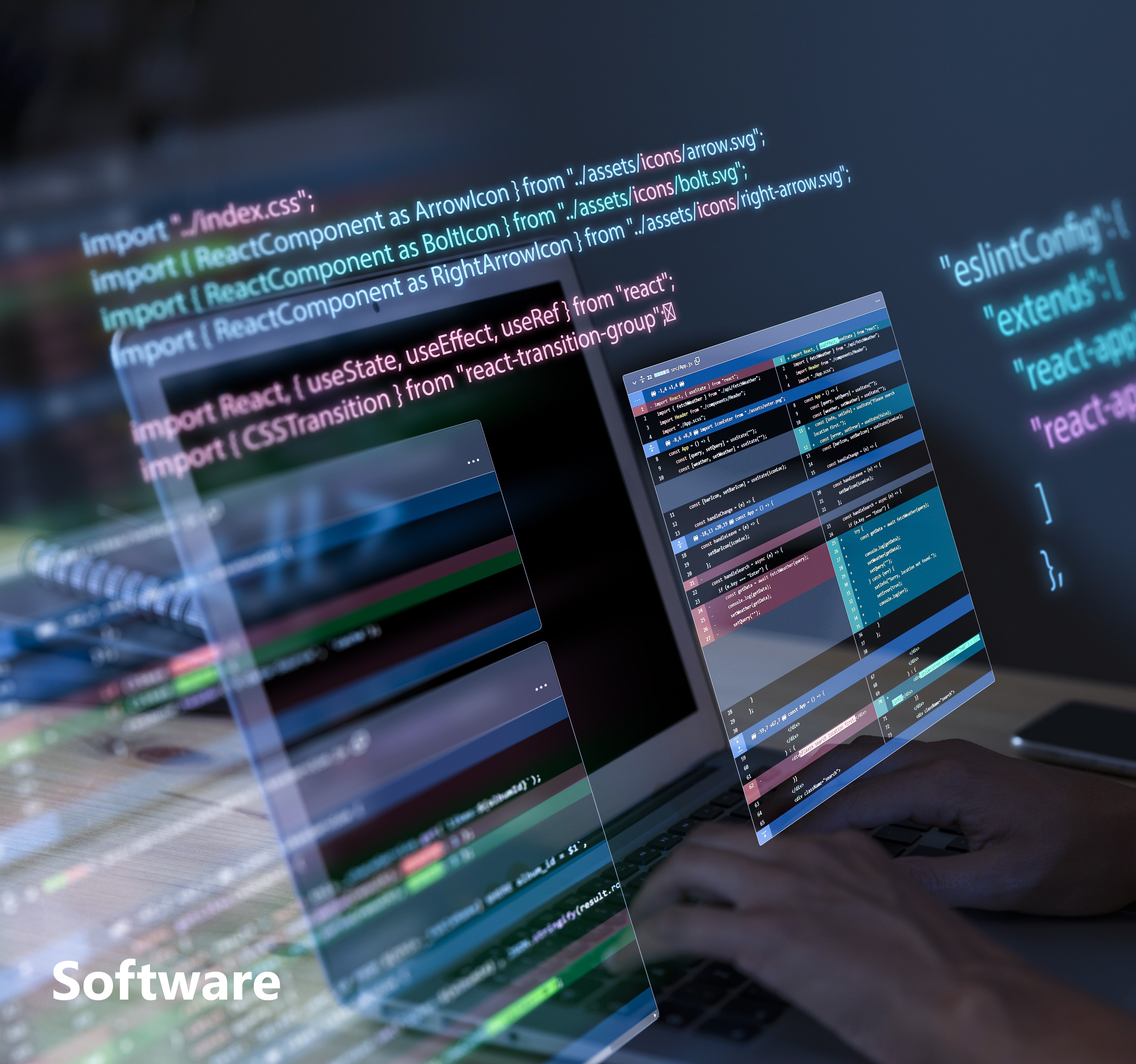
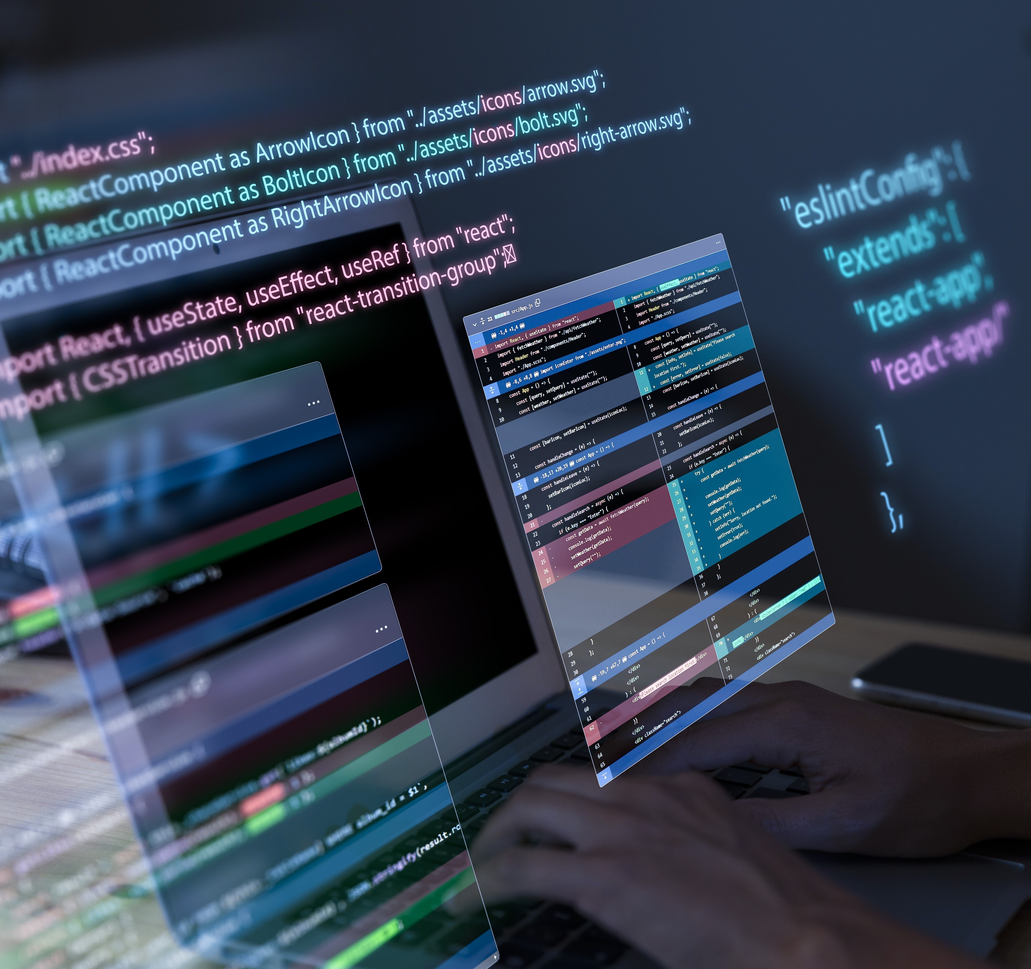
Added drawer and updated slider images

diff --git a/src/components/drawer.jsx b/src/components/drawer.jsx
@@ -1,0 +1,82 @@
+// Drawer.jsx
+import React, { useEffect, useRef } from 'react';
+import styled from 'styled-components';
+
+const DrawerContainer = styled.div`
+  position: fixed;
+  top: 0;
+  left: 0;
+  width: 100%;
+  height: 500px; /* Adjust height as needed */
+  background-color: rgba(16, 36, 71, 0.8); /* Adjust opacity here */
+  color: #fff;
+  z-index: 1000;
+  display: flex;
+  flex-direction: column;
+  justify-content: center;
+  align-items: center;
+  padding: 20px;
+  transition: transform 0.3s ease;
+  transform: translateY(${props => (props.isOpen ? '0' : '-100%')});
+`;
+
+const Content = styled.div`
+  text-align: center;
+  margin-bottom: 40px;
+  margin-left: 40px;
+  margin-right: 40px;
+  font-size: 1.2em; /* Adjust the font size as needed */
+`;
+
+
+const Button = styled.button`
+  font-size: 1.2em;
+  position: absolute;
+  bottom: 100px;
+  right: 120px;
+  background-color: #fff;
+  color: #102447;
+  border: none;
+  padding: 10px 20px;
+  border-radius: 5px;
+  cursor: pointer;
+  transition: background-color 0.3s ease;
+
+  &:hover {
+    background-color: #47bfbf;
+    color: #fff;
+  }
+`;
+
+const Drawer = ({ isOpen, onClose }) => {
+  const drawerRef = useRef(null);
+
+  useEffect(() => {
+    const handleClickOutside = (event) => {
+      if (drawerRef.current && !drawerRef.current.contains(event.target)) {
+        onClose();
+      }
+    };
+
+    if (isOpen) {
+      document.addEventListener('mousedown', handleClickOutside);
+    }
+
+    return () => {
+      document.removeEventListener('mousedown', handleClickOutside);
+    };
+  }, [isOpen, onClose]);
+
+  return (
+    <DrawerContainer isOpen={isOpen} ref={drawerRef}>
+      <Content>
+        <p>
+          Lorem ipsum dolor sit amet, consectetur adipiscing elit. Suspendisse consectetur libero ac ullamcorper bibendum. Donec eu blandit ipsum, a interdum felis. Fusce ut nisl enim. Vestibulum elementum ut quam sed fringilla. Nulla blandit id dolor tincidunt viverra. Donec gravida ut mi sed efficitur.Nam massa eros, bibendum in sapien et, vehicula accumsan ipsum. In aliquam ligula et justo semper dignissim. Duis accumsan mauris eu elementum posuere. In gravida euismod ex, quis gravida erat mollis sit amet. Sed quis fringilla leo. Ut nec dolor tellus. Cras posuere euismod porta. In arcu metus, tincidunt quis rhoncus non, tincidunt sit amet nibh. Praesent laoreet felis et libero feugiat, bibendum blandit felis vestibulum.
+        </p>
+      </Content>
+      <Button onClick={onClose}>Know More</Button>
+    </DrawerContainer>
+  );
+};
+
+export default Drawer;

diff --git a/src/components/header.jsx b/src/components/header.jsx
@@ -1,18 +1,23 @@
 // Header.jsx
-import React, { useRef, useEffect } from 'react';
+import React, { useRef, useState, useEffect } from 'react';
 import StyledHeader from './styles/styled_header';
 import { Link } from 'react-router-dom';
 import LG from "../assets/logo.png";
-
+import Drawer from './drawer'; // Import the Drawer component
 
 const Header = () => {
   const headerRef = useRef(null);
+  const [isDrawerOpen, setIsDrawerOpen] = useState(false); // State to manage drawer visibility
 
   const toggle = () => {
     const header = headerRef.current;
     if (header) {
       header.classList.toggle('active');
     }
+  };
+
+  const toggleDrawer = () => {
+    setIsDrawerOpen(!isDrawerOpen); // Toggle drawer state
   };
 
   useEffect(() => {
@@ -31,18 +36,21 @@ const Header = () => {
   }, []);
 
   return (
-    <StyledHeader ref={headerRef}>
-      <Link to="/wm-portfolio">
-        <img src={LG} alt="logo" />
-      </Link>      
-      <ul>
-        <li><a href="/wm-portfolio" onClick={toggle}>What We Do</a></li>
-        <li><a href="#about" onClick={toggle}>Who We Are</a></li>
-        <li><a href="#services" onClick={toggle}>Insights</a></li>
-        <li><Link to="/career">Careers</Link></li>
-      </ul>
-      <div className="toggle" onClick={toggle}></div>
-    </StyledHeader>
+    <>
+      <StyledHeader ref={headerRef}>
+        <Link to="/wm-portfolio">
+          <img src={LG} alt="logo" />
+        </Link>      
+        <ul>
+          <li><a onClick={toggleDrawer}>What We Do</a></li> {/* Change onClick handler */}
+          <li><a href="#about" onClick={toggle}>Who We Are</a></li>
+          <li><a href="#services" onClick={toggle}>Insights</a></li>
+          <li><Link to="/career">Careers</Link></li>
+        </ul>
+        <div className="toggle" onClick={toggle}></div>
+      </StyledHeader>
+      <Drawer isOpen={isDrawerOpen} onClose={toggleDrawer} /> {/* Render the Drawer component */}
+    </>
   );
 };
 

diff --git a/src/components/styles/styled_banner.jsx b/src/components/styles/styled_banner.jsx
@@ -1,5 +1,3 @@
-// styled_banner.js
-
 import styled from 'styled-components';
 
 export const StyledBanner = styled.section`
@@ -13,7 +11,7 @@ export const StyledBanner = styled.section`
   z-index: 1;
 
   .banner-heading {
-    padding-left: 170px;
+    padding-left: 250px;
     margin-bottom: 20px; /* Space between the heading and the slider */
     text-align: left; /* Align text to the left */
     width: 100%; /* Ensure it takes up the full width */
@@ -25,7 +23,7 @@ export const StyledBanner = styled.section`
   }
 
   .slick-slider {
-    width: 80%;
+    width: 70%;
     margin: 0 auto;
   }
 
@@ -76,17 +74,37 @@ export const StyledBanner = styled.section`
 
   .slick-prev,
   .slick-next {
+    width: 50px;
+    height: 50px;
+    border-radius: 50%;
+    display: flex;
+    justify-content: center;
+    align-items: center;
+    transition: background-color 0.3s ease;
     top: 50%; /* Position arrows vertically centered */
     transform: translateY(-50%);
     z-index: 1;
   }
 
-  .slick-prev {
-    left: -30px; /* Adjust position of previous arrow */
+  .slick-prev:before,
+  .slick-next:before {
+    font-size: 50px; /* Adjust the size of the arrow icon */
+    color: #fff; /* Change arrow color */
   }
 
+
+
+  .slick-prev:hover:before,
+  .slick-next:hover:before {
+    color: #000; /* Change arrow color on hover */
+  }
+
+  .slick-prev {
+    left: -60px; /* Adjust as needed */
+  }
+  
   .slick-next {
-    right: -30px; /* Adjust position of next arrow */
+    right: -60px; /* Adjust as needed */
   }
 
   @media (max-width: 768px) {
@@ -96,7 +114,6 @@ export const StyledBanner = styled.section`
   }
 
   @media (max-width: 576px) {
-
     .banner-heading {
       h2 {
         font-size: 1rem; /* Adjust the size as needed */

diff --git a/src/components/home_screen.jsx b/src/components/home_screen.jsx
@@ -1,27 +1,36 @@
 // MyComponent.jsx
-import React from 'react';
+import React, { useState } from 'react';
 import Header from './header';
-import Banner from './banner'; // Import the Banner component
-import 'slick-carousel/slick/slick.css'; // Import React Slick styles
-import 'slick-carousel/slick/slick-theme.css'; // Import React Slick theme styles
+import Banner from './banner';
+import Drawer from './drawer'; // Import the Drawer component
+import 'slick-carousel/slick/slick.css';
+import 'slick-carousel/slick/slick-theme.css';
 
 const MyComponent = () => {
-  // Define settings for the React Slick slider
+  const [isDrawerOpen, setIsDrawerOpen] = useState(false); // State to manage drawer visibility
+
+  const toggleDrawer = () => {
+    setIsDrawerOpen(!isDrawerOpen); // Toggle drawer state
+  };
+
+  const closeDrawer = () => {
+    setIsDrawerOpen(false); // Close the drawer
+  };
+
   const settings = {
     dots: true,
     arrows: true,
     infinite: true,
     speed: 250,
-    slidesToShow: 3, // Display three slides at a time
+    slidesToShow: 3,
     slidesToScroll: 1,
-    // Add more settings as needed
   };
 
   return (
     <>
       <Header />
-      <Banner settings={settings} /> {/* Use the Banner component */}
-
+      <Banner settings={settings} />
+      <Drawer isOpen={isDrawerOpen} onClose={closeDrawer} /> {/* Render the Drawer component */}
     </>
   );
 };

diff --git a/src/components/styles/styled_header.jsx b/src/components/styles/styled_header.jsx
@@ -10,11 +10,11 @@ export const StyledHeader = styled.header`
   justify-content: space-between;
   align-items: center;
   transition: 0.6s;
-  padding: 20px 80px;
+  padding: 5px 80px;
   z-index: 1000;
 
   &.sticky {
-    padding: 5px 100px;
+    padding: 20px 100px;
     background: #345789;
     border-bottom: 1px solid rgba(0, 0, 0, .1);
   }
@@ -35,9 +35,10 @@ export const StyledHeader = styled.header`
   }
 
   img {
-    max-width: 150px;
+    max-width: 120px;
     height: auto;
     margin-right: 10px;
+    margin-top: 20px;
     transition: transform 0.3s ease; /* Add transition for smooth scaling */
   }
   

diff --git a/src/components/banner.jsx b/src/components/banner.jsx
@@ -5,10 +5,10 @@ import { useNavigate } from 'react-router-dom';
 import Slider from 'react-slick'; // Import React Slick library
 import 'slick-carousel/slick/slick.css'; // Import React Slick styles
 import 'slick-carousel/slick/slick-theme.css'; // Import React Slick theme styles
-import AIM from "../assets/AIM.png";
+import AIM from "../assets/AIM1.png";
 import voip1 from "../assets/voip1.jpg";
-import app2 from "../assets/app2.jpg";
-import software1 from "../assets/software1.jpg";
+import app2 from "../assets/app12.jpg";
+import software1 from "../assets/software12.jpg";
 
 
 const Banner = ({ settings }) => {
